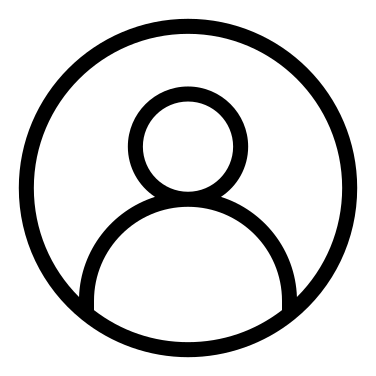
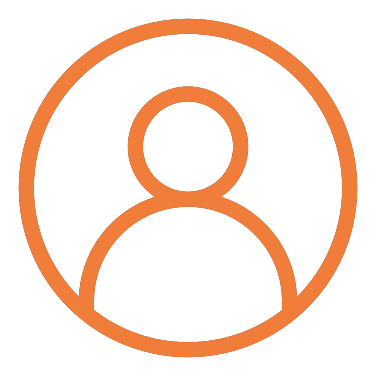
.

Changed region(s): [[0.0293, 0.0293, 0.9654, 0.9654]]

diff --git a/src/style/_loading.css b/src/style/_loading.css
@@ -1,0 +1,120 @@
+/* Absolute Center CSS Spinner */
+.loading {
+    position: fixed;
+    z-index: 999;
+    height: 2em;
+    width: 2em;
+    overflow: show;
+    margin: auto;
+    top: 0;
+    left: 0;
+    bottom: 0;
+    right: 0;
+    display: none;
+  }
+  
+  /* Transparent Overlay */
+  .loading:before {
+    content: '';
+    display: block;
+    position: fixed;
+    top: 0;
+    left: 0;
+    width: 100%;
+    height: 100%;
+    background-color: rgba(0,0,0,0.3);
+  }
+  
+  /* :not(:required) hides these rules from IE9 and below */
+  .loading:not(:required) {
+    /* hide "loading..." text */
+    font: 0/0 a;
+    color: transparent;
+    text-shadow: none;
+    background-color: transparent;
+    border: 0;
+  }
+  
+  .loading:not(:required):after {
+    content: '';
+    display: block;
+    font-size: 10px;
+    width: 1em;
+    height: 1em;
+    margin-top: -0.5em;
+    -webkit-animation: spinner 1500ms infinite linear;
+    -moz-animation: spinner 1500ms infinite linear;
+    -ms-animation: spinner 1500ms infinite linear;
+    -o-animation: spinner 1500ms infinite linear;
+    animation: spinner 1500ms infinite linear;
+    border-radius: 0.5em;
+    -webkit-box-shadow: rgba(0, 0, 0, 0.75) 1.5em 0 0 0, rgba(0, 0, 0, 0.75) 1.1em 1.1em 0 0, rgba(0, 0, 0, 0.75) 0 1.5em 0 0, rgba(0, 0, 0, 0.75) -1.1em 1.1em 0 0, rgba(0, 0, 0, 0.5) -1.5em 0 0 0, rgba(0, 0, 0, 0.5) -1.1em -1.1em 0 0, rgba(0, 0, 0, 0.75) 0 -1.5em 0 0, rgba(0, 0, 0, 0.75) 1.1em -1.1em 0 0;
+    box-shadow: rgba(0, 0, 0, 0.75) 1.5em 0 0 0, rgba(0, 0, 0, 0.75) 1.1em 1.1em 0 0, rgba(0, 0, 0, 0.75) 0 1.5em 0 0, rgba(0, 0, 0, 0.75) -1.1em 1.1em 0 0, rgba(0, 0, 0, 0.75) -1.5em 0 0 0, rgba(0, 0, 0, 0.75) -1.1em -1.1em 0 0, rgba(0, 0, 0, 0.75) 0 -1.5em 0 0, rgba(0, 0, 0, 0.75) 1.1em -1.1em 0 0;
+  }
+  
+  /* Animation */
+  
+  @-webkit-keyframes spinner {
+    0% {
+      -webkit-transform: rotate(0deg);
+      -moz-transform: rotate(0deg);
+      -ms-transform: rotate(0deg);
+      -o-transform: rotate(0deg);
+      transform: rotate(0deg);
+    }
+    100% {
+      -webkit-transform: rotate(360deg);
+      -moz-transform: rotate(360deg);
+      -ms-transform: rotate(360deg);
+      -o-transform: rotate(360deg);
+      transform: rotate(360deg);
+    }
+  }
+  @-moz-keyframes spinner {
+    0% {
+      -webkit-transform: rotate(0deg);
+      -moz-transform: rotate(0deg);
+      -ms-transform: rotate(0deg);
+      -o-transform: rotate(0deg);
+      transform: rotate(0deg);
+    }
+    100% {
+      -webkit-transform: rotate(360deg);
+      -moz-transform: rotate(360deg);
+      -ms-transform: rotate(360deg);
+      -o-transform: rotate(360deg);
+      transform: rotate(360deg);
+    }
+  }
+  @-o-keyframes spinner {
+    0% {
+      -webkit-transform: rotate(0deg);
+      -moz-transform: rotate(0deg);
+      -ms-transform: rotate(0deg);
+      -o-transform: rotate(0deg);
+      transform: rotate(0deg);
+    }
+    100% {
+      -webkit-transform: rotate(360deg);
+      -moz-transform: rotate(360deg);
+      -ms-transform: rotate(360deg);
+      -o-transform: rotate(360deg);
+      transform: rotate(360deg);
+    }
+  }
+  @keyframes spinner {
+    0% {
+      -webkit-transform: rotate(0deg);
+      -moz-transform: rotate(0deg);
+      -ms-transform: rotate(0deg);
+      -o-transform: rotate(0deg);
+      transform: rotate(0deg);
+    }
+    100% {
+      -webkit-transform: rotate(360deg);
+      -moz-transform: rotate(360deg);
+      -ms-transform: rotate(360deg);
+      -o-transform: rotate(360deg);
+      transform: rotate(360deg);
+    }
+  }

diff --git a/src/scripts/index.js b/src/scripts/index.js
@@ -1,4 +1,25 @@
 let loggedInUser = firebase.auth().currentUser;
+
+class _Footer extends HTMLElement {
+    constructor() {
+        super();
+        this.innerHTML =`
+        <ul class="menu">
+            <li><a href="./src/Routes/adicionar.html">  <img src="./src/assets/add.png" alt="Ir para página adicionar">         </a></li>
+            <li><a href="./src/Routes/pesquisar.html">  <img src="./src/assets/search.png" alt="Ir para página de pesquisa">    </a></li>
+            <li><a href="./src/Routes/home.html">       <img src="./src/assets/home.png" alt="Ir para página inicial">          </a></li>
+            <li><a href="./src/Routes/lista.html">      <img src="./src/assets/lists.png" alt="Ir para página de listas">       </a></li>
+            <li><a href="./src/Routes/perfil.html">     <img src="./src/assets/profile.png" alt="Ir para página de perfil">     </a></li>
+        </ul>
+        
+        
+        `;
+        
+    }
+}
+window.customElements.define('my-footer', _Footer);
+
+
 /*
 
 

diff --git a/src/scripts/home.js b/src/scripts/home.js
@@ -1,6 +1,22 @@
-window.addEventListener('load', function (){
-    let loggedInUser = firebase.auth().currentUser;
-    document.querySelector('#welcomeUserString').innerHTML = `
-    Bem vindo, ${loggedInUser.displayName}
-    `;
-})
+firebase.auth().onAuthStateChanged(function (user){
+    if (user) {
+        let welcomeMessage = document.querySelector('#welcomeMessage')
+        let loggedInUserFirstName = document.querySelector('#loggedInUserFirstName')
+
+        let namesplit = firebase.auth().currentUser.displayName.split(' ')
+        
+        welcomeMessage.innerHTML = 'Bem vindo, '
+        loggedInUserFirstName.innerHTML = namesplit[0]
+        
+
+    } else logOut()
+});
+
+logOut = () => {
+    firebase.auth().signOut()
+    window.location.href = './login.html';
+}
+
+var btn = document.createElement("BUTTON");   // Create a <button> element
+btn.innerHTML = "CLICK ME";                   // Insert text
+document.body.appendChild(btn)

diff --git a/src/style/_containers.css b/src/style/_containers.css
@@ -1,11 +1,4 @@
-@media screen and (min-width: 600px){
-    header, main, section, footer {
-        max-width: 50vw;
-        left: 25vw;
-    }
-}
-
-header, main, section, footer {
+header, main, section, my-footer {
     position: absolute;
     margin: 0;
     padding: 0;
@@ -14,25 +7,25 @@ header, main, section, footer {
 }
 
 header {
-    height: 20vh;
-    background-color: #fff;
+    height: 15vh;
+    background-color: var(--main-color);
     border-radius: 0;
 }
 
 main {
-    height: 85vh;
-    top: 15vh;
-    background-color: #002f48;
+    height: 90vh;
+    top: 10vh;
+    background-color: var(--secondary-color);
 }
 
 section {
-    height: 55vh;
+    height: 60vh;
     top: 40vh;
-    background-color: #fff;
+    background-color: var(--main-color);
 }
 
-footer {
+my-footer {
     height: 10vh;
     top: 90vh;
-    background-color: #002f48;
+    background-color: var(--secondary-color);
 }

diff --git a/src/scripts/login.js b/src/scripts/login.js
@@ -1,9 +1,11 @@
 firebase.auth().onAuthStateChanged(function (user){
-    if (user) window.location.href = './home.html';
+    if (user) document.querySelector('.loading').style.display = 'block';
+    if (user) window.location.href = './home.html';    
 });
 
 var loginButton = document.querySelector('#loginButton');
 
 loginButton.addEventListener('click', () => {
-    firebase.auth().signInWithRedirect(provider)
+    document.querySelector('.loading').style.display = 'block';
+    firebase.auth().signInWithRedirect(provider);
 });

diff --git a/index.css b/index.css
@@ -2,6 +2,8 @@
 @import './src/style/_text.css';
 @import './src/style/_images.css';
 @import './src/style/_button.css';
+@import './src/style/_footer.css';
+@import './src/style/_loading.css';
 @import 'https://cdn.jsdelivr.net/npm/bootstrap@5.0.0-beta1/dist/css/bootstrap.min.css';
 
 * {
@@ -18,4 +20,10 @@
   
 ::-webkit-scrollbar-button {
     display: none;
+}
+
+:root {
+    --main-color: #FFFFFF;
+    --secondary-color: #002f48;
+    --third-color: #F77F3C;
 }

diff --git a/src/Routes/home.html b/src/Routes/home.html
@@ -9,13 +9,17 @@
 </head>
 <body>
     <header>
-        <h1  class='line-heigh-20vh' id="welcomeUserString"></h1>
+        <h1 class='line-heigh-20vh' id="welcomeMessage"></h1>
+        <span id="loggedInUserFirstName"></span>
     </header>
     
     <main>
-
+        <button id='logOutBtn' onclick='logOut()' style='margin: 5em;'>Sair</button>
     </main>
 
+    <section></section>
+
+    <my-footer></my-footer>
 
 
 

diff --git a/src/style/_text.css b/src/style/_text.css
@@ -7,15 +7,22 @@ p {
 }
 
 .line-heigh-20vh {
-    line-height: 20vh;
+    line-height: 15vh;
     padding-left: 5vw;
 }
 
 header h1 {
-    color: #002f48;
+    font-size: 2em;
+    color: var(--secondary-color);
+    display: inline;
+}
+
+header h1 span{
+    font-size: 2em;
+    color: var(--secondary-color);
 }
 
 main p{
-    color: #f77d3c;
+    color: var(--third-color);
     padding: 5vh;
 }

diff --git a/src/style/_button.css b/src/style/_button.css
@@ -1,11 +1,6 @@
-@media screen and (min-width: 600px){
+@media screen and (min-width: 700px){
     .align-btn {
-        display: block;
-        position: absolute;
-        margin: 0;
-        width: 20vw;
-        top: 55vh;
-        left: 15vw;
+        top: 70vh;
     }
 }
 .align-btn {

diff --git a/src/Routes/login.html b/src/Routes/login.html
@@ -20,6 +20,8 @@
 
         <button id="loginButton" type="button" class="btn btn-light align-btn" style="color: #f77d3c;">Entrar com Google</button>
 
+        <div class="loading"></div>
+
     </main>
 
 <!-- Firebase Scripts

diff --git a/src/style/_images.css b/src/style/_images.css
@@ -1,7 +1,7 @@
 @media screen and (min-width: 600px){
     .not-a-user-icon {
-        width: 15vw;
-        height: 15vw;
+        max-width: 15vw;
+        max-height: 15vw;
     }
 }
 
